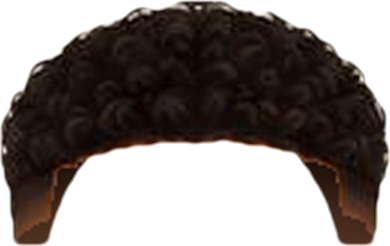
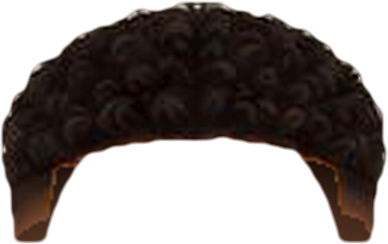
Coiffures garçons : crâne sous les cheveux (plus de vide entre la coiffure et la tête), bords nets
Claude-Session: https://claude.ai/code/session_01RffJDTtPaeahFdiXkdY2ya

diff --git a/js/coiffures-art.js b/js/coiffures-art.js
@@ -1,2 +1,2 @@
 /* formes décalquées par tools/traceur-coiffures.py sur docs/references/coiffures/ — ne pas modifier à la main */
-const HAIR_ART={"longs":{"img":[61.76,56.98,276.48,530.04],"lum":[0.079,0.145,0.33],"fcut":[345,136],"main":"#2f2420","back":[["sil","M76.6,307.2 76.4,323.2 73.5,334.3 73.5,350.9 70.5,357.7 70.5,364.1 72.0,368.0 72.2,374.9 75.3,376.5 76.4,378.4 74.9,385.0 324.9,385.0 323.4,378.4 324.5,376.5 327.6,374.9 327.8,368.0 329.3,364.1 329.3,357.7 326.4,350.9 326.4,334.3 323.4,323.2 323.4,308.0 321.8,303.2 78.0,303.2Z","#211815"]],"front":[["sil","","#2f2420"]]},"carrelisse":{"img":[64.24,52.26,260.24,271.92],"lum":[0.075,0.147,0.377],"main":"#29201c","back":[["sil","","#1a1411"]],"front":[["sil","","#29201c"]]},"queuehaute2":{"img":[95.53,4.04,242.49,372.16],"lum":[0.081,0.152,0.38],"dos":1,"ears":1,"main":"#281e1b","back":[["sil","","#1c1613"]],"front":[["sil","","#281e1b"]]},"mechesdevant":{"img":[52.66,40.92,292.88,450.58],"lum":[0.066,0.132,0.372],"dos":1,"main":"#2b211d","back":[["sil","M64.8,297.4 64.8,308.7 61.3,313.7 61.3,317.6 59.6,322.1 59.6,329.7 57.9,334.2 57.9,343.6 56.1,348.1 56.1,353.9 52.7,367.2 52.7,379.7 54.2,381.9 76.9,382.1 76.9,392.1 73.5,405.3 73.5,411.1 71.7,415.7 71.7,423.3 70.0,427.8 70.0,452.7 71.7,457.3 71.9,462.3 76.5,473.3 86.7,483.9 96.9,486.5 103.4,491.3 287.7,491.3 294.2,486.5 299.6,485.7 306.5,482.2 315.0,474.0 320.8,458.8 321.1,448.6 322.8,444.1 322.8,436.5 321.1,431.9 321.1,420.9 319.3,416.3 319.3,407.0 317.6,402.5 317.6,394.9 315.9,390.3 315.9,383.8 343.8,383.6 345.3,381.5 345.3,370.6 343.6,366.1 343.6,362.0 341.9,357.4 341.9,353.3 338.4,340.1 338.4,334.2 334.9,321.0 334.9,311.7 333.2,307.2 333.2,301.3 331.7,297.4Z","#1a1411"]],"front":[["sil","","#2b211d"]]},"frangedroite":{"img":[73.46,44.39,265.15,443.65],"lum":[0.071,0.146,0.373],"dos":1,"main":"#291f1c","back":[["sil","M77.6,297.6 76.9,324.5 75.2,329.0 75.2,340.1 76.9,344.6 76.9,353.7 73.5,358.7 73.5,369.5 76.3,373.7 281.2,374.1 281.4,412.9 283.1,417.4 283.1,449.3 284.9,453.8 285.3,485.0 290.5,487.8 331.0,487.8 338.0,485.0 338.4,471.1 336.7,466.6 336.7,446.9 334.9,442.3 334.9,429.6 333.2,425.0 333.2,415.7 331.5,411.1 331.5,400.1 329.7,395.5 329.7,388.0 328.0,383.4 328.0,356.8 326.3,352.2 326.3,341.2 324.5,336.6 324.5,318.6 322.8,314.1 322.8,299.6 321.9,297.4Z","#191310"]],"front":[["sil","","#291f1c"]]},"chignonhaut2":{"img":[88.56,-28.55,213.5,337.75],"lum":[0.102,0.159,0.406],"ears":1,"main":"#2d241f","back":[["sil","","#241b18"]],"front":[["sil","","#2d241f"]]},"raiecotel":{"img":[45.39,39.7,268.92,446.25],"lum":[0.074,0.142,0.34],"dos":1,"main":"#271f1d","back":[["sil","M62.7,479.8 65.2,483.5 71.5,485.7 126.4,485.7 129.9,483.3 130.3,472.4 125.1,455.5 125.1,451.4 123.3,446.8 123.3,440.9 121.6,436.3 121.6,425.1 119.8,420.5 119.8,407.6 118.1,403.0 118.1,374.4 116.8,370.0 313.0,369.8 314.1,367.8 314.1,351.6 312.3,347.0 312.3,318.4 310.6,313.8 310.6,296.9 58.8,296.9 57.1,302.6 57.1,312.0 55.3,316.6 55.3,324.3 53.6,328.9 53.6,340.0 51.8,344.6 51.8,352.3 50.1,356.9 50.1,362.8 48.3,367.4 48.3,373.3 46.6,377.9 46.6,383.8 44.8,388.4 44.8,391.7 45.7,394.3 60.6,394.5 60.6,404.8 58.8,409.4 58.8,460.8 60.6,465.4 60.6,469.5 62.3,474.1Z","#181412"]],"front":[["sil","","#271f1d"]]},"deuxtresses":{"img":[80.41,47.89,228.48,455.17],"lum":[0.079,0.134,0.364],"dos":1,"ears":1,"main":"#2b221e","back":[["sil","","#1c1613"]],"front":[["sil","","#2b221e"]]},"serretete":{"img":[63.31,42.58,266.87,334.02],"lum":[0.067,0.132,0.354],"acc":1,"dos":1,"main":"#211a17","back":[["sil","M67.1,299.6 66.8,315.3 65.1,319.9 65.1,331.2 63.3,335.8 63.3,345.3 65.1,349.9 65.1,355.9 63.3,360.5 63.3,374.2 64.4,376.2 324.0,376.2 326.9,378.2 328.4,378.0 329.7,376.2 330.0,349.9 328.2,345.3 328.2,327.0 326.4,322.3 326.4,302.2 324.7,296.5 68.4,296.5Z","#16120f"]],"front":[["sil","","#211a17"]]},"barrette":{"img":[57.2,42.54,269.53,306.42],"lum":[0.067,0.141,0.442],"acc":1,"main":"#271e1b","back":[["sil","M57.2,297.8 57.2,307.8 59.0,312.5 59.2,317.6 63.0,329.0 67.9,337.7 82.6,342.2 96.7,344.2 105.8,347.5 115.4,347.5 120.1,349.3 123.7,348.9 125.3,345.8 283.2,345.8 290.6,342.4 305.5,340.2 309.6,337.3 315.8,335.9 318.9,332.6 321.4,325.9 324.5,322.8 324.7,317.9 326.5,313.2 326.5,297.8Z","#17120f"]],"front":[["sil","","#271e1b"]]},"raiemilieu":{"img":[55.52,32.13,284.14,450.5],"lum":[0.067,0.142,0.369],"dos":1,"main":"#281f1b","back":[["sil","M62.8,296.8 62.8,299.8 61.0,304.6 61.0,321.7 59.2,326.4 59.2,341.7 57.3,346.5 57.3,356.3 55.5,361.0 55.5,374.5 56.4,376.8 58.3,378.1 73.7,378.4 73.7,390.9 71.9,395.7 71.9,401.8 70.1,406.6 70.1,412.7 68.3,417.5 68.3,425.5 66.5,430.3 66.5,440.1 64.6,444.8 64.6,458.3 62.8,463.0 62.8,479.9 63.9,481.9 327.8,482.4 329.9,481.3 330.3,468.5 328.5,463.7 328.5,444.8 326.7,440.1 326.7,430.3 324.9,425.5 324.9,419.3 323.0,414.6 323.0,408.4 321.2,403.6 321.2,393.8 319.4,389.1 318.9,379.7 338.8,379.5 339.4,377.2 339.4,357.4 337.6,352.6 337.6,339.2 335.8,334.4 335.8,321.0 334.0,316.2 334.0,306.4 332.2,301.6 332.2,296.8Z","#1b1511"]],"front":[["sil","","#281f1b"]]},"queuelisse":{"img":[87.02,5.23,239.8,369.02],"lum":[0.07,0.142,0.374],"dos":1,"ears":1,"main":"#231b18","back":[["sil","M87.0,297.3 87.0,309.3 88.8,314.0 88.8,339.9 87.0,344.7 87.0,364.9 88.6,367.2 306.5,367.4 316.9,371.5 321.6,375.3 323.9,375.1 326.4,373.0 326.6,364.5 324.8,359.8 324.8,353.7 323.0,348.9 323.0,342.8 321.2,338.1 321.2,332.0 319.4,327.3 319.4,319.4 317.6,314.7 317.6,308.6 315.8,303.9 315.8,297.3Z","#171310"]],"front":[["sil","","#231b18"]]},"bafro":{"img":[-35.38,-42.2,441.59,404.36],"lum":[0.084,0.118,0.453],"dos":1,"main":"#231917","back":[["sil","","#1e1512"]],"front":[["sil","","#231917"]]},"bbantu":{"img":[64.41,16.43,267.67,201.6],"lum":[0.08,0.126,0.397],"ears":1,"main":"#241a17","back":[["sil","","#1e1513"]],"front":[["sil","","#241a17"]]},"bcarre":{"img":[-2.61,34.18,393.98,324.86],"lum":[0.08,0.117,0.406],"dos":1,"main":"#221816","back":[["sil","","#1c1411"]],"front":[["sil","","#221816"]]},"bchignon":{"img":[50.96,-55.67,266.11,266.68],"lum":[0.09,0.13,0.494],"ears":1,"main":"#271c19","back":[["sil","","#211715"]],"front":[["sil","","#271c19"]]},"bpuffs":{"img":[-2.22,-19.51,380.5,324.65],"lum":[0.083,0.122,0.511],"ears":1,"main":"#241a18","back":[["sil","","#1e1513"]],"front":[["sil","","#241a18"]]},"bbox":{"img":[36.18,45.08,305.45,357.81],"lum":[0.065,0.109,0.383],"dos":1,"main":"#1e1513","back":[["sil","","#17100e"]],"front":[["sil","","#1e1513"]]},"bcollees":{"img":[93.21,46.92,210.07,306.63],"lum":[0.061,0.117,0.555],"dos":1,"ears":1,"main":"#211815","back":[["sil","","#191210"]],"front":[["sil","","#211815"]]},"bdemiqueue":{"img":[-4.99,-5.51,384.79,420.41],"lum":[0.072,0.115,0.435],"dos":1,"main":"#211715","back":[["sil","","#1a1210"]],"front":[["sil","","#211715"]]},"bqueue":{"img":[-19.11,-13.87,331.64,450.88],"lum":[0.05,0.101,0.479],"dos":1,"ears":1,"fcut":[335,40],"main":"#1b120f","back":[["sil","","#140c0a"]],"front":[["sil","","#1b120f"]]},"blongs":{"img":[-15.94,38.56,410.84,382.62],"lum":[0.074,0.114,0.376],"dos":1,"main":"#211715","back":[["sil","","#1b1310"]],"front":[["sil","","#211715"]]},"bchignonhaut":{"img":[54.2,-60.1,265.5,238.46],"lum":[0.045,0.099,0.528],"ears":1,"main":"#1a120f","back":[["sil","","#130b09"]],"front":[["sil","","#1a120f"]]},"bchignonbas":{"img":[2.88,22.15,317.2,322.46],"lum":[0.05,0.107,0.353],"ears":1,"main":"#1e1512","back":[["sil","","#150d0b"]],"front":[["sil","","#1e1512"]]},"btwists":{"img":[44.85,44.74,293.57,371.61],"lum":[0.066,0.11,0.393],"dos":1,"main":"#201614","back":[["sil","","#19110f"]],"front":[["sil","","#201614"]]},"bchignonmeches":{"img":[64.47,-46.78,265.5,320.89],"lum":[0.045,0.109,0.56],"ears":1,"main":"#1c1411","back":[["sil","","#130c0a"]],"front":[["sil","","#1c1411"]]},"bwashgo":{"img":[-14.33,34.03,409.46,330.57],"lum":[0.079,0.111,0.473],"dos":1,"main":"#211715","back":[["sil","","#1c1411"]],"front":[["sil","","#211715"]]},"bfoulard":{"img":[17.63,-15.05,289.29,226.51],"lum":[0.077,0.119,0.521],"acc":1,"ears":1,"main":"#211815","back":[["sil","","#1c1311"]],"front":[["sil","","#211815"]]},"btressesboucles":{"img":[-20.98,37.88,402.54,365.23],"lum":[0.074,0.109,0.442],"dos":1,"main":"#201614","back":[["sil","","#1a1210"]],"front":[["sil","","#201614"]]},"bcourt":{"img":[49.71,4.49,284.72,212.07],"lum":[0.096,0.123,0.417],"ears":1,"main":"#261b19","back":[["sil","","#211815"]],"front":[["sil","","#261b19"]]},"bqueuehaute":{"img":[-47.74,-22.65,369.64,407.31],"lum":[0.048,0.098,0.449],"dos":1,"ears":1,"main":"#1a120f","back":[["sil","","#130c09"]],"front":[["sil","","#1a120f"]]},"btressesarriere":{"img":[4.41,37.45,303.72,347.3],"lum":[0.044,0.096,0.382],"dos":1,"ears":1,"main":"#19110e","back":[["sil","","#120b08"]],"front":[["sil","","#19110e"]]},"gnaturel":{"img":[81.29,16.03,239.41,178.35],"lum":[0.046,0.096,0.358],"ears":1,"main":"#241914","back":[["sil","","#150c09"]],"front":[["sil","","#241914"]]},"gdegbas":{"img":[80.99,12.63,238.12,177.06],"lum":[0.046,0.1,0.345],"ears":1,"main":"#251a15","back":[["sil","","#160c09"]],"front":[["sil","","#251a15"]]},"gdegmoyen":{"img":[78.83,7.32,244.2,163.42],"lum":[0.046,0.097,0.385],"ears":1,"main":"#1c120f","back":[["sil","","#150c09"]],"front":[["sil","","#1c120f"]]},"gdeghaut":{"img":[80.36,3.77,242.93,153.23],"lum":[0.042,0.093,0.419],"ears":1,"main":"#1a110e","back":[["sil","","#140b08"]],"front":[["sil","","#1a110e"]]},"gbuzz":{"img":[84.38,16.57,234.95,171.43],"lum":[0.072,0.117,0.307],"ears":1,"main":"#221612","back":[["sil","","#1b110d"]],"front":[["sil","","#221612"]]},"gcarrecourt":{"img":[80.68,11.02,246.05,183.15],"lum":[0.054,0.102,0.373],"ears":1,"main":"#261a15","back":[["sil","","#170e0b"]],"front":[["sil","","#261a15"]]},"gcarremoyen":{"img":[68.16,5.31,267.43,227.74],"lum":[0.054,0.098,0.398],"main":"#241814","back":[["sil","","#180e0c"]],"front":[["sil","","#241814"]]},"gcarrelong":{"img":[57.93,0.03,284.04,231.09],"lum":[0.043,0.098,0.439],"main":"#241815","back":[["sil","","#160d0a"]],"front":[["sil","","#241815"]]},"gplaques":{"img":[80.36,9.38,242.93,183.13],"lum":[0.052,0.098,0.318],"ears":1,"main":"#1d1310","back":[["sil","","#170e0c"]],"front":[["sil","","#1d1310"]]},"graiemilieu":{"img":[66.82,7.7,269.95,224.64],"lum":[0.04,0.099,0.395],"main":"#1d1310","back":[["sil","","#150c09"]],"front":[["sil","","#1d1310"]]},"graiecote":{"img":[73.28,1.77,255.3,194.25],"lum":[0.044,0.097,0.308],"ears":1,"main":"#1c120f","back":[["sil","","#160c09"]],"front":[["sil","","#1c120f"]]},"gquiff":{"img":[69.58,-7.48,264.55,204.12],"lum":[0.037,0.098,0.47],"ears":1,"main":"#1c120f","back":[["sil","","#130b08"]],"front":[["sil","","#1c120f"]]},"gpompadour":{"img":[78.83,-5.63,240.5,197.95],"lum":[0.039,0.094,0.366],"ears":1,"main":"#1c120f","back":[["sil","","#140b08"]],"front":[["sil","","#1c120f"]]},"gtaper":{"img":[74.37,-4.26,256.73,192.55],"lum":[0.038,0.087,0.416],"ears":1,"main":"#190f0d","back":[["sil","","#130a08"]],"front":[["sil","","#190f0d"]]},"gondule":{"img":[70.59,-3.63,262.4,200.73],"lum":[0.036,0.092,0.447],"ears":1,"main":"#1a110e","back":[["sil","","#120a07"]],"front":[["sil","","#1a110e"]]}};
+const HAIR_ART={"longs":{"img":[61.76,56.98,276.48,530.04],"lum":[0.079,0.145,0.33],"fcut":[345,136],"main":"#2f2420","back":[["sil","M76.6,307.2 76.4,323.2 73.5,334.3 73.5,350.9 70.5,357.7 70.5,364.1 72.0,368.0 72.2,374.9 75.3,376.5 76.4,378.4 74.9,385.0 324.9,385.0 323.4,378.4 324.5,376.5 327.6,374.9 327.8,368.0 329.3,364.1 329.3,357.7 326.4,350.9 326.4,334.3 323.4,323.2 323.4,308.0 321.8,303.2 78.0,303.2Z","#211815"]],"front":[["sil","","#2f2420"]]},"carrelisse":{"img":[64.24,52.26,260.24,271.92],"lum":[0.075,0.147,0.377],"main":"#29201c","back":[["sil","","#1a1411"]],"front":[["sil","","#29201c"]]},"queuehaute2":{"img":[95.53,4.04,242.49,372.16],"lum":[0.081,0.152,0.38],"dos":1,"ears":1,"main":"#281e1b","back":[["sil","","#1c1613"]],"front":[["sil","","#281e1b"]]},"mechesdevant":{"img":[52.66,40.92,292.88,450.58],"lum":[0.066,0.132,0.372],"dos":1,"main":"#2b211d","back":[["sil","M64.8,297.4 64.8,308.7 61.3,313.7 61.3,317.6 59.6,322.1 59.6,329.7 57.9,334.2 57.9,343.6 56.1,348.1 56.1,353.9 52.7,367.2 52.7,379.7 54.2,381.9 76.9,382.1 76.9,392.1 73.5,405.3 73.5,411.1 71.7,415.7 71.7,423.3 70.0,427.8 70.0,452.7 71.7,457.3 71.9,462.3 76.5,473.3 86.7,483.9 96.9,486.5 103.4,491.3 287.7,491.3 294.2,486.5 299.6,485.7 306.5,482.2 315.0,474.0 320.8,458.8 321.1,448.6 322.8,444.1 322.8,436.5 321.1,431.9 321.1,420.9 319.3,416.3 319.3,407.0 317.6,402.5 317.6,394.9 315.9,390.3 315.9,383.8 343.8,383.6 345.3,381.5 345.3,370.6 343.6,366.1 343.6,362.0 341.9,357.4 341.9,353.3 338.4,340.1 338.4,334.2 334.9,321.0 334.9,311.7 333.2,307.2 333.2,301.3 331.7,297.4Z","#1a1411"]],"front":[["sil","","#2b211d"]]},"frangedroite":{"img":[73.46,44.39,265.15,443.65],"lum":[0.071,0.146,0.373],"dos":1,"main":"#291f1c","back":[["sil","M77.6,297.6 76.9,324.5 75.2,329.0 75.2,340.1 76.9,344.6 76.9,353.7 73.5,358.7 73.5,369.5 76.3,373.7 281.2,374.1 281.4,412.9 283.1,417.4 283.1,449.3 284.9,453.8 285.3,485.0 290.5,487.8 331.0,487.8 338.0,485.0 338.4,471.1 336.7,466.6 336.7,446.9 334.9,442.3 334.9,429.6 333.2,425.0 333.2,415.7 331.5,411.1 331.5,400.1 329.7,395.5 329.7,388.0 328.0,383.4 328.0,356.8 326.3,352.2 326.3,341.2 324.5,336.6 324.5,318.6 322.8,314.1 322.8,299.6 321.9,297.4Z","#191310"]],"front":[["sil","","#291f1c"]]},"chignonhaut2":{"img":[88.56,-28.55,213.5,337.75],"lum":[0.102,0.159,0.406],"ears":1,"main":"#2d241f","back":[["sil","","#241b18"]],"front":[["sil","","#2d241f"]]},"raiecotel":{"img":[45.39,39.7,268.92,446.25],"lum":[0.074,0.142,0.34],"dos":1,"main":"#271f1d","back":[["sil","M62.7,479.8 65.2,483.5 71.5,485.7 126.4,485.7 129.9,483.3 130.3,472.4 125.1,455.5 125.1,451.4 123.3,446.8 123.3,440.9 121.6,436.3 121.6,425.1 119.8,420.5 119.8,407.6 118.1,403.0 118.1,374.4 116.8,370.0 313.0,369.8 314.1,367.8 314.1,351.6 312.3,347.0 312.3,318.4 310.6,313.8 310.6,296.9 58.8,296.9 57.1,302.6 57.1,312.0 55.3,316.6 55.3,324.3 53.6,328.9 53.6,340.0 51.8,344.6 51.8,352.3 50.1,356.9 50.1,362.8 48.3,367.4 48.3,373.3 46.6,377.9 46.6,383.8 44.8,388.4 44.8,391.7 45.7,394.3 60.6,394.5 60.6,404.8 58.8,409.4 58.8,460.8 60.6,465.4 60.6,469.5 62.3,474.1Z","#181412"]],"front":[["sil","","#271f1d"]]},"deuxtresses":{"img":[80.41,47.89,228.48,455.17],"lum":[0.079,0.134,0.364],"dos":1,"ears":1,"main":"#2b221e","back":[["sil","","#1c1613"]],"front":[["sil","","#2b221e"]]},"serretete":{"img":[63.31,42.58,266.87,334.02],"lum":[0.067,0.132,0.354],"acc":1,"dos":1,"main":"#211a17","back":[["sil","M67.1,299.6 66.8,315.3 65.1,319.9 65.1,331.2 63.3,335.8 63.3,345.3 65.1,349.9 65.1,355.9 63.3,360.5 63.3,374.2 64.4,376.2 324.0,376.2 326.9,378.2 328.4,378.0 329.7,376.2 330.0,349.9 328.2,345.3 328.2,327.0 326.4,322.3 326.4,302.2 324.7,296.5 68.4,296.5Z","#16120f"]],"front":[["sil","","#211a17"]]},"barrette":{"img":[57.2,42.54,269.53,306.42],"lum":[0.067,0.141,0.442],"acc":1,"main":"#271e1b","back":[["sil","M57.2,297.8 57.2,307.8 59.0,312.5 59.2,317.6 63.0,329.0 67.9,337.7 82.6,342.2 96.7,344.2 105.8,347.5 115.4,347.5 120.1,349.3 123.7,348.9 125.3,345.8 283.2,345.8 290.6,342.4 305.5,340.2 309.6,337.3 315.8,335.9 318.9,332.6 321.4,325.9 324.5,322.8 324.7,317.9 326.5,313.2 326.5,297.8Z","#17120f"]],"front":[["sil","","#271e1b"]]},"raiemilieu":{"img":[55.52,32.13,284.14,450.5],"lum":[0.067,0.142,0.369],"dos":1,"main":"#281f1b","back":[["sil","M62.8,296.8 62.8,299.8 61.0,304.6 61.0,321.7 59.2,326.4 59.2,341.7 57.3,346.5 57.3,356.3 55.5,361.0 55.5,374.5 56.4,376.8 58.3,378.1 73.7,378.4 73.7,390.9 71.9,395.7 71.9,401.8 70.1,406.6 70.1,412.7 68.3,417.5 68.3,425.5 66.5,430.3 66.5,440.1 64.6,444.8 64.6,458.3 62.8,463.0 62.8,479.9 63.9,481.9 327.8,482.4 329.9,481.3 330.3,468.5 328.5,463.7 328.5,444.8 326.7,440.1 326.7,430.3 324.9,425.5 324.9,419.3 323.0,414.6 323.0,408.4 321.2,403.6 321.2,393.8 319.4,389.1 318.9,379.7 338.8,379.5 339.4,377.2 339.4,357.4 337.6,352.6 337.6,339.2 335.8,334.4 335.8,321.0 334.0,316.2 334.0,306.4 332.2,301.6 332.2,296.8Z","#1b1511"]],"front":[["sil","","#281f1b"]]},"queuelisse":{"img":[87.02,5.23,239.8,369.02],"lum":[0.07,0.142,0.374],"dos":1,"ears":1,"main":"#231b18","back":[["sil","M87.0,297.3 87.0,309.3 88.8,314.0 88.8,339.9 87.0,344.7 87.0,364.9 88.6,367.2 306.5,367.4 316.9,371.5 321.6,375.3 323.9,375.1 326.4,373.0 326.6,364.5 324.8,359.8 324.8,353.7 323.0,348.9 323.0,342.8 321.2,338.1 321.2,332.0 319.4,327.3 319.4,319.4 317.6,314.7 317.6,308.6 315.8,303.9 315.8,297.3Z","#171310"]],"front":[["sil","","#231b18"]]},"bafro":{"img":[-35.38,-42.2,441.59,404.36],"lum":[0.084,0.118,0.453],"dos":1,"main":"#231917","back":[["sil","","#1e1512"]],"front":[["sil","","#231917"]]},"bbantu":{"img":[64.41,16.43,267.67,201.6],"lum":[0.08,0.126,0.397],"ears":1,"main":"#241a17","back":[["sil","","#1e1513"]],"front":[["sil","","#241a17"]]},"bcarre":{"img":[-2.61,34.18,393.98,324.86],"lum":[0.08,0.117,0.406],"dos":1,"main":"#221816","back":[["sil","","#1c1411"]],"front":[["sil","","#221816"]]},"bchignon":{"img":[50.96,-55.67,266.11,266.68],"lum":[0.09,0.13,0.494],"ears":1,"main":"#271c19","back":[["sil","","#211715"]],"front":[["sil","","#271c19"]]},"bpuffs":{"img":[-2.22,-19.51,380.5,324.65],"lum":[0.083,0.122,0.511],"ears":1,"main":"#241a18","back":[["sil","","#1e1513"]],"front":[["sil","","#241a18"]]},"bbox":{"img":[36.18,45.08,305.45,357.81],"lum":[0.065,0.109,0.383],"dos":1,"main":"#1e1513","back":[["sil","","#17100e"]],"front":[["sil","","#1e1513"]]},"bcollees":{"img":[93.21,46.92,210.07,306.63],"lum":[0.061,0.117,0.555],"dos":1,"ears":1,"main":"#211815","back":[["sil","","#191210"]],"front":[["sil","","#211815"]]},"bdemiqueue":{"img":[-4.99,-5.51,384.79,420.41],"lum":[0.072,0.115,0.435],"dos":1,"main":"#211715","back":[["sil","","#1a1210"]],"front":[["sil","","#211715"]]},"bqueue":{"img":[-19.11,-13.87,331.64,450.88],"lum":[0.05,0.101,0.479],"dos":1,"ears":1,"fcut":[335,40],"main":"#1b120f","back":[["sil","","#140c0a"]],"front":[["sil","","#1b120f"]]},"blongs":{"img":[-15.94,38.56,410.84,382.62],"lum":[0.074,0.114,0.376],"dos":1,"main":"#211715","back":[["sil","","#1b1310"]],"front":[["sil","","#211715"]]},"bchignonhaut":{"img":[54.2,-60.1,265.5,238.46],"lum":[0.045,0.099,0.528],"ears":1,"main":"#1a120f","back":[["sil","","#130b09"]],"front":[["sil","","#1a120f"]]},"bchignonbas":{"img":[2.88,22.15,317.2,322.46],"lum":[0.05,0.107,0.353],"ears":1,"main":"#1e1512","back":[["sil","","#150d0b"]],"front":[["sil","","#1e1512"]]},"btwists":{"img":[44.85,44.74,293.57,371.61],"lum":[0.066,0.11,0.393],"dos":1,"main":"#201614","back":[["sil","","#19110f"]],"front":[["sil","","#201614"]]},"bchignonmeches":{"img":[64.47,-46.78,265.5,320.89],"lum":[0.045,0.109,0.56],"ears":1,"main":"#1c1411","back":[["sil","","#130c0a"]],"front":[["sil","","#1c1411"]]},"bwashgo":{"img":[-14.33,34.03,409.46,330.57],"lum":[0.079,0.111,0.473],"dos":1,"main":"#211715","back":[["sil","","#1c1411"]],"front":[["sil","","#211715"]]},"bfoulard":{"img":[17.63,-15.05,289.29,226.51],"lum":[0.077,0.119,0.521],"acc":1,"ears":1,"main":"#211815","back":[["sil","","#1c1311"]],"front":[["sil","","#211815"]]},"btressesboucles":{"img":[-20.98,37.88,402.54,365.23],"lum":[0.074,0.109,0.442],"dos":1,"main":"#201614","back":[["sil","","#1a1210"]],"front":[["sil","","#201614"]]},"bcourt":{"img":[49.71,4.49,284.72,212.07],"lum":[0.096,0.123,0.417],"ears":1,"main":"#261b19","back":[["sil","","#211815"]],"front":[["sil","","#261b19"]]},"bqueuehaute":{"img":[-47.74,-22.65,369.64,407.31],"lum":[0.048,0.098,0.449],"dos":1,"ears":1,"main":"#1a120f","back":[["sil","","#130c09"]],"front":[["sil","","#1a120f"]]},"btressesarriere":{"img":[4.41,37.45,303.72,347.3],"lum":[0.044,0.096,0.382],"dos":1,"ears":1,"main":"#19110e","back":[["sil","","#120b08"]],"front":[["sil","","#19110e"]]},"gnaturel":{"img":[81.9,17.24,238.2,175.33],"lum":[0.046,0.096,0.358],"ears":1,"crane":"M306.0,70.7 302.1,66.8 299.6,66.4 295.5,62.3 295.1,58.0 293.0,55.9 290.6,55.5 289.4,52.3 285.1,51.8 284.2,48.9 278.5,43.2 272.4,42.8 269.5,36.0 267.4,35.8 265.4,33.9 256.5,33.9 255.0,30.5 252.9,30.3 247.2,26.7 238.4,26.7 236.4,24.9 233.0,24.9 227.5,21.5 218.7,21.5 216.4,19.4 214.4,19.4 212.3,21.2 181.7,21.2 180.1,22.8 177.6,23.3 174.2,26.7 163.6,26.7 161.5,28.5 158.1,28.5 156.1,30.3 152.7,30.3 148.9,33.9 145.5,33.9 139.8,37.6 135.9,37.8 132.1,41.6 131.2,44.6 127.3,44.8 125.7,46.4 119.6,48.7 113.9,54.3 113.5,58.6 111.2,60.9 104.9,63.4 104.6,65.4 102.8,67.5 102.6,73.2 99.7,74.1 97.6,76.1 95.3,82.2 92.2,85.2 91.9,87.2 90.1,89.3 90.1,94.5 88.3,96.5 88.3,105.4 86.5,107.4 86.5,114.4 84.7,116.5 84.7,134.8 86.5,136.9 86.5,145.7 88.3,147.7 88.3,156.6 90.1,158.6 90.1,165.7 91.9,167.7 91.9,172.9 93.8,175.0 93.8,178.4 95.6,180.4 95.8,186.1 99.2,190.1 302.1,189.9 302.8,187.2 306.2,185.6 306.2,180.4 308.0,178.4 308.0,173.1 309.8,171.1 309.8,165.9 311.6,163.8 311.6,158.6 313.4,156.6 313.4,147.7 315.3,145.7 315.3,138.7 317.1,136.6 317.1,102.0 315.3,99.9 315.3,94.7 311.6,90.8 311.6,82.0 309.4,79.5 306.2,78.1Z","main":"#241914","back":[["sil","","#150c09"]],"front":[["sil","","#241914"]]},"gdegbas":{"img":[81.6,13.24,236.9,173.4],"lum":[0.046,0.1,0.345],"ears":1,"crane":"M86.3,92.1 86.3,104.7 84.4,106.7 84.4,123.4 86.3,125.5 86.3,132.6 88.1,134.7 88.1,141.8 89.9,143.8 89.9,154.6 91.7,156.6 91.7,163.7 93.6,166.5 307.2,166.5 308.1,165.6 308.1,160.3 309.9,158.3 309.9,149.3 311.8,147.3 311.8,138.3 313.6,136.3 313.6,125.5 315.4,123.4 315.4,92.1 313.6,90.0 313.6,82.9 308.3,77.7 307.9,71.5 304.0,67.6 301.5,67.1 299.2,64.8 299.0,59.1 297.4,57.5 296.9,55.0 294.8,52.9 285.0,48.8 284.3,44.5 282.0,41.9 278.1,41.7 272.9,36.4 269.0,36.2 267.4,34.6 264.8,34.2 263.7,30.9 256.1,30.7 250.9,25.5 247.0,25.2 244.9,23.4 241.5,23.4 237.6,19.7 225.0,19.7 222.9,17.9 215.8,17.9 213.8,16.1 195.2,16.1 193.2,17.9 180.6,17.9 178.8,19.7 169.6,19.7 168.0,21.3 165.5,21.8 162.0,25.2 153.1,25.2 149.7,28.7 145.8,28.9 144.2,30.5 134.3,34.6 127.7,41.5 123.3,41.9 122.7,44.7 120.4,47.0 117.8,47.4 114.9,50.6 112.4,51.1 111.7,55.7 109.4,58.0 103.2,60.3 101.1,62.3 100.9,64.4 99.1,66.4 99.1,69.9 97.2,71.9 97.2,75.4 92.0,78.8 91.7,84.5 90.1,86.1 89.7,88.6Z","main":"#251a15","back":[["sil","","#160c09"]],"front":[["sil","","#251a15"]]},"gdegmoyen":{"img":[79.44,7.94,242.35,161.57],"lum":[0.046,0.097,0.385],"ears":1,"crane":"M82.3,87.6 82.3,119.2 84.1,121.3 84.1,126.6 86.0,128.7 86.0,139.6 87.8,141.7 87.8,148.8 89.7,150.9 89.7,158.1 91.5,160.2 91.5,166.4 307.3,166.4 308.2,165.5 308.2,160.2 310.1,158.1 310.1,149.1 311.9,147.0 311.9,138.0 313.8,135.9 313.8,123.2 315.6,121.1 315.6,117.6 317.5,115.5 317.5,102.8 319.3,100.7 319.3,96.8 315.6,92.9 315.6,80.2 314.0,78.5 313.5,76.0 311.5,73.9 308.5,73.0 308.2,67.2 306.4,65.1 306.1,61.2 299.2,56.3 296.9,50.1 294.8,48.0 292.7,47.8 290.6,45.9 286.7,45.7 282.6,41.5 280.2,35.3 273.8,32.8 268.9,27.7 266.8,27.4 264.8,25.6 255.7,25.6 250.4,20.3 248.3,20.0 246.2,18.2 240.9,18.2 238.8,16.3 224.3,16.3 220.8,12.9 218.7,12.6 216.7,10.8 192.4,10.8 190.3,14.5 172.0,14.5 168.1,18.2 157.2,18.2 151.4,21.9 148.0,21.9 146.4,23.5 143.8,24.0 137.1,30.9 129.5,31.1 126.0,34.6 123.5,35.1 120.9,41.5 118.6,43.9 114.7,44.1 113.1,45.7 106.8,48.0 104.7,50.1 102.4,56.3 95.5,61.2 95.2,63.3 91.5,69.1 91.5,72.5 88.1,76.0 87.8,79.9 84.4,83.4 84.1,85.5Z","main":"#1c120f","back":[["sil","","#150c09"]],"front":[["sil","","#1c120f"]]},"gdeghaut":{"img":[80.98,4.39,241.68,151.99],"lum":[0.042,0.093,0.419],"ears":1,"crane":"M83.9,83.0 83.9,103.7 85.7,105.8 85.7,113.1 89.5,118.9 89.5,135.5 91.3,137.6 91.3,152.3 92.3,153.3 310.2,153.3 310.2,147.0 312.1,144.9 312.1,126.4 313.9,124.3 313.9,115.2 317.7,111.2 317.7,105.8 319.5,103.7 319.5,97.9 317.7,95.8 317.7,75.5 312.3,70.1 310.0,63.8 304.8,58.9 304.4,52.6 296.7,44.9 292.7,44.6 291.1,43.0 288.5,42.5 285.7,35.8 283.6,33.7 277.3,31.3 270.5,24.3 262.8,24.1 261.2,22.5 258.6,22.0 255.5,18.7 249.2,16.4 245.7,12.9 225.4,12.9 223.8,11.2 221.2,10.8 217.7,7.3 193.2,7.3 191.1,11.0 168.9,11.0 167.3,12.6 164.7,13.1 159.3,18.5 155.8,18.5 153.5,20.6 146.2,20.6 143.0,23.9 140.9,24.1 138.8,26.0 135.2,26.0 133.6,27.6 131.0,28.1 124.3,35.1 121.5,35.8 120.5,40.7 118.4,40.9 116.3,42.8 112.8,42.8 110.7,44.6 106.8,44.9 102.8,48.9 102.5,51.0 100.7,53.1 100.7,56.6 98.8,58.7 98.6,62.6 94.1,63.3 91.6,65.7 91.3,67.8 89.5,69.9 89.5,75.2 86.0,78.8 85.7,80.9Z","main":"#1a110e","back":[["sil","","#140b08"]],"front":[["sil","","#1a110e"]]},"gbuzz":{"img":[84.99,17.19,233.72,168.35],"lum":[0.072,0.117,0.307],"ears":1,"crane":"M95.2,89.4 95.2,92.9 93.4,95.0 93.4,100.3 91.5,102.4 91.5,105.8 89.7,107.9 89.7,116.9 87.8,119.0 87.8,139.6 89.7,141.7 89.7,154.4 91.5,156.5 91.5,165.5 93.4,167.6 93.4,174.7 95.2,176.8 95.2,184.0 95.5,178.7 96.6,177.5 307.3,177.5 308.2,176.6 308.2,171.3 310.1,169.2 310.1,162.0 311.9,159.9 311.9,150.9 313.8,148.8 313.8,136.1 315.6,134.0 315.6,119.0 313.8,116.9 313.8,104.2 310.1,98.4 310.1,95.0 308.2,92.9 308.2,87.6 306.6,85.9 302.4,76.0 299.2,73.0 298.7,70.5 295.5,67.4 295.0,64.9 291.8,61.9 291.3,59.4 278.2,46.2 275.6,45.7 272.6,42.5 270.1,42.0 261.5,35.1 259.4,34.8 253.6,31.1 249.7,30.9 246.2,27.4 242.8,27.4 237.0,23.7 231.7,23.7 229.6,21.9 218.7,21.9 216.7,20.0 185.0,20.0 182.9,21.9 177.6,21.9 175.5,23.7 170.2,23.7 168.1,25.6 164.6,25.6 158.8,29.3 155.4,29.3 153.8,30.9 143.8,35.1 140.8,38.3 138.3,38.8 133.4,43.9 130.9,44.3 127.9,47.6 125.3,48.0 115.8,57.5 115.4,60.0 108.4,66.8 108.0,69.3 102.9,74.2 102.6,76.2Z","main":"#221612","back":[["sil","","#1b110d"]],"front":[["sil","","#221612"]]},"gcarrecourt":{"img":[81.29,11.64,244.82,181.3],"lum":[0.054,0.102,0.373],"ears":1,"crane":"M86.0,91.3 86.0,105.8 84.1,107.9 84.1,119.2 86.0,121.3 86.0,132.2 87.6,133.8 88.1,136.4 91.5,138.0 91.5,152.5 93.4,154.6 93.4,163.6 95.2,165.7 95.2,172.9 97.1,175.0 97.1,185.8 101.5,190.5 301.8,190.5 302.9,187.5 306.4,184.0 306.4,176.8 308.2,174.7 308.2,167.6 310.1,165.5 310.1,158.3 311.9,156.2 311.9,145.4 313.8,143.3 313.8,138.0 317.5,134.0 317.5,130.6 319.3,128.5 319.3,121.3 323.0,119.2 323.0,109.8 321.2,107.7 321.2,102.4 317.5,96.6 317.5,85.7 315.9,84.1 309.8,70.5 306.6,67.4 306.1,63.1 304.1,61.0 301.5,60.5 295.5,54.5 295.0,50.1 287.4,42.5 284.9,42.0 280.0,36.9 277.9,36.7 275.8,34.8 268.2,34.6 265.9,32.3 265.4,29.8 259.2,25.6 244.6,25.6 241.9,23.0 240.7,20.0 237.2,20.0 235.1,18.2 224.3,18.2 222.2,16.3 216.9,16.3 214.8,14.5 199.8,14.5 197.7,16.3 183.1,16.3 181.5,18.0 179.0,18.4 177.3,21.9 168.3,21.9 166.2,23.7 153.5,23.7 151.9,25.4 149.4,25.8 148.7,28.6 145.7,29.5 142.7,32.8 138.7,33.0 132.9,36.7 129.5,36.7 126.0,40.2 123.5,40.6 121.4,42.7 120.9,45.2 117.9,46.2 108.4,55.7 108.0,60.0 99.2,68.6 98.7,71.1 91.8,79.7 91.5,81.8Z","main":"#261a15","back":[["sil","","#170e0b"]],"front":[["sil","","#261a15"]]},"gcarremoyen":{"img":[68.78,5.92,266.2,225.3],"lum":[0.054,0.098,0.398],"crane":"M298.7,51.3 282.0,34.6 279.5,34.2 271.0,27.3 269.0,27.1 267.4,25.5 265.3,25.2 263.7,23.6 261.6,23.4 248.8,16.3 242.4,16.3 241.3,12.4 237.8,12.4 235.8,10.6 230.5,10.6 228.4,8.7 220.9,8.7 218.8,10.6 176.9,10.6 174.9,12.4 167.8,12.4 165.7,14.2 162.3,14.2 152.9,19.7 149.4,19.7 147.8,21.3 138.0,25.5 129.5,32.3 127.0,32.8 99.3,60.5 98.8,63.0 93.8,67.8 93.4,70.3 90.1,73.3 89.9,75.4 80.8,92.1 80.8,95.5 75.3,104.9 75.3,110.2 73.4,112.2 73.4,119.3 71.6,121.4 71.6,136.3 75.3,138.3 75.3,154.6 77.1,156.6 77.1,163.7 78.9,165.8 78.9,169.2 84.2,170.8 88.3,180.7 90.4,182.7 92.9,183.2 95.4,186.0 95.4,214.6 93.6,216.6 93.6,222.4 95.6,222.4 95.9,212.1 265.3,212.1 267.8,207.7 268.0,204.7 296.9,204.5 298.7,202.7 302.8,192.8 307.9,188.0 308.3,183.7 311.1,181.1 315.0,180.9 315.7,178.2 318.9,175.2 319.1,173.1 322.8,167.4 322.8,162.1 324.6,160.1 324.6,156.6 325.7,155.5 329.9,155.0 330.1,147.5 331.9,145.4 331.9,125.1 330.1,123.0 330.1,117.7 328.3,115.7 328.3,112.2 324.6,106.5 324.6,103.1 322.8,101.0 322.8,88.4 321.2,86.8 317.0,77.0 313.8,74.0 313.4,71.5 308.3,66.7 307.9,64.1 302.8,59.3 302.4,56.8 299.2,53.8Z","main":"#241814","back":[["sil","","#180e0c"]],"front":[["sil","","#241814"]]},"gcarrelong":{"img":[58.56,0.66,282.79,228.6],"lum":[0.043,0.098,0.439],"crane":"M87.8,67.5 87.4,70.1 84.1,73.1 83.9,75.2 76.4,88.6 76.4,92.1 74.5,94.2 74.5,101.4 68.9,111.0 68.9,114.5 65.2,120.3 65.2,123.8 63.3,125.9 63.3,131.3 61.4,133.4 61.4,146.7 62.4,147.7 65.9,147.7 67.0,148.8 67.0,165.4 68.9,167.5 68.9,174.8 70.5,176.4 71.0,179.0 74.5,180.6 74.5,195.3 78.3,197.4 78.3,206.5 79.0,207.2 91.1,207.2 91.3,214.0 93.2,216.1 93.2,219.6 96.2,220.8 96.9,222.4 312.1,222.4 312.1,219.4 309.0,214.5 309.0,207.5 323.3,206.5 323.3,193.7 326.8,192.0 327.3,187.6 330.8,186.0 330.8,165.6 332.6,163.5 332.9,159.6 338.2,157.9 338.2,131.5 336.4,129.4 336.4,124.1 334.5,122.0 334.5,118.5 332.6,116.4 332.6,112.9 330.8,110.8 330.8,107.2 328.9,105.1 328.9,92.3 327.3,90.7 323.1,80.6 319.8,77.6 317.4,71.3 314.2,68.2 313.7,65.7 306.7,58.9 306.2,56.3 295.5,45.8 295.0,43.2 284.3,34.6 283.8,30.2 274.2,22.5 272.1,22.2 270.5,20.6 268.4,20.4 251.3,11.0 247.8,11.0 245.7,9.1 242.2,9.1 240.1,7.3 234.8,7.3 232.7,5.4 195.5,5.4 193.4,3.5 174.5,3.5 172.4,5.4 168.9,5.4 163.0,9.1 159.5,9.1 153.7,12.9 150.2,12.9 148.1,14.7 144.6,14.7 143.0,16.4 129.2,22.5 126.1,25.7 123.6,26.2 108.4,41.4 107.9,43.9 104.7,47.0 104.2,49.6 95.3,58.2 94.8,60.8Z","main":"#241815","back":[["sil","","#160d0a"]],"front":[["sil","","#241815"]]},"gplaques":{"img":[80.98,10.0,241.06,179.39],"lum":[0.052,0.098,0.318],"ears":1,"crane":"M87.6,88.6 87.6,92.1 85.7,94.2 85.7,105.1 83.9,107.2 83.9,126.2 85.7,128.3 85.7,137.4 87.6,139.5 87.6,143.0 89.5,145.1 89.5,152.3 91.3,154.4 91.3,165.4 93.2,167.5 93.2,172.9 95.1,175.0 95.3,186.4 96.5,185.0 303.7,185.0 304.6,184.1 304.6,178.7 306.5,176.6 306.5,173.1 308.3,171.0 308.3,163.8 310.2,161.7 310.2,154.4 312.1,152.3 312.1,143.2 313.9,141.1 313.9,135.7 315.8,133.6 315.8,128.3 317.7,126.2 317.7,120.8 319.5,118.7 319.5,114.7 317.7,112.6 317.7,97.9 315.8,95.8 315.8,90.4 312.1,84.6 311.8,80.6 308.6,77.6 308.1,75.0 304.8,72.0 304.4,69.4 302.3,67.3 299.7,66.8 296.7,63.6 293.6,62.6 293.4,58.7 291.5,56.6 291.5,53.1 288.0,49.6 287.5,47.0 279.8,39.3 277.3,38.8 270.5,31.8 268.4,31.6 258.8,26.0 255.3,26.0 245.7,20.4 242.2,20.4 240.1,18.5 236.6,18.5 234.5,16.6 229.2,16.6 227.0,14.7 219.8,14.7 217.7,12.9 185.7,12.9 183.6,14.7 176.4,14.7 174.3,16.6 170.8,16.6 168.7,18.5 163.3,18.5 157.4,22.2 153.9,22.2 151.8,24.1 148.3,24.1 146.7,25.7 144.1,26.2 141.1,29.5 134.8,31.8 129.9,36.9 127.3,37.4 122.4,42.5 119.8,43.0 110.3,52.6 109.8,55.2 106.5,58.2 106.1,60.8 100.9,65.7 100.4,68.2 93.4,76.9 93.2,79.0Z","main":"#1d1310","back":[["sil","","#170e0c"]],"front":[["sil","","#1d1310"]]},"graiemilieu":{"img":[67.45,8.33,268.69,221.5],"lum":[0.04,0.099,0.395],"crane":"M104.6,55.1 104.1,57.7 98.9,62.7 98.4,65.3 95.1,68.3 90.9,78.5 87.6,81.6 85.2,87.9 81.9,91.0 81.7,93.1 77.9,99.0 77.9,108.2 74.1,114.1 74.1,117.7 72.2,119.8 72.2,127.1 70.4,129.2 70.4,137.0 74.1,139.1 74.1,148.3 76.0,150.5 76.0,161.5 79.1,162.7 81.7,165.6 81.7,171.0 83.6,173.1 83.6,182.3 93.0,183.3 93.0,199.3 94.9,201.4 94.9,212.0 93.0,214.2 93.0,222.4 304.4,222.4 305.9,221.0 310.1,220.5 310.3,216.1 306.6,212.0 306.6,202.8 304.7,200.7 304.7,190.1 308.2,186.6 309.2,181.6 318.8,181.4 319.8,180.4 319.8,176.9 323.6,171.0 323.6,167.4 325.4,165.3 325.4,159.9 327.3,157.8 327.3,152.3 330.9,150.7 331.1,146.7 333.0,144.6 333.0,131.1 331.1,129.0 331.1,123.6 329.2,121.4 329.2,117.9 327.3,115.8 327.3,112.2 325.4,110.1 325.4,106.6 323.6,104.4 323.3,91.0 320.0,87.9 317.7,81.6 312.5,76.6 312.0,74.0 308.7,70.9 308.2,68.3 303.0,63.4 302.6,60.8 299.2,57.7 298.8,55.1 293.6,50.2 293.1,47.6 279.7,34.1 271.4,33.7 268.3,30.4 265.7,29.9 262.7,26.6 260.1,26.1 257.7,23.7 257.0,20.9 254.9,20.7 252.8,18.8 249.2,18.8 243.3,15.0 219.0,15.0 216.9,13.1 188.8,13.1 186.7,11.2 177.0,11.2 174.9,15.0 165.7,15.0 163.6,16.9 160.0,16.9 157.9,18.8 154.4,18.8 152.7,20.4 150.1,20.9 147.0,24.2 133.1,30.4 128.2,35.5 125.6,36.0 115.0,46.9 112.4,47.3Z","main":"#1d1310","back":[["sil","","#150c09"]],"front":[["sil","","#1d1310"]]},"graiecote":{"img":[73.89,3.0,254.07,191.78],"lum":[0.044,0.097,0.308],"ears":1,"crane":"M91.8,64.9 91.5,70.7 89.9,72.3 89.5,74.8 86.2,77.9 86.0,79.9 80.4,89.4 80.4,92.9 78.6,95.0 78.6,98.4 76.7,100.5 76.7,117.4 80.2,119.0 80.4,121.1 82.3,123.2 82.3,134.0 83.9,135.7 84.4,138.2 87.6,141.2 87.8,145.1 89.7,147.2 89.7,154.4 91.5,156.5 91.5,165.5 93.4,167.6 93.4,174.7 95.2,176.8 95.2,184.0 98.7,187.5 99.6,192.3 302.4,191.9 302.7,189.8 306.4,184.0 306.4,180.5 308.2,178.4 308.2,173.1 310.1,171.0 310.1,165.7 311.9,163.6 311.9,156.5 313.8,154.4 313.8,147.2 315.6,145.1 315.6,138.0 318.9,136.6 321.2,134.0 321.2,125.0 323.0,122.9 323.0,117.6 324.9,115.5 324.9,98.7 323.0,96.6 323.0,91.3 321.2,89.2 321.2,85.7 319.3,83.6 319.1,79.7 315.9,76.7 313.5,70.5 307.8,64.7 301.5,62.4 299.2,60.0 299.0,52.4 297.4,50.8 295.0,44.6 283.7,33.2 279.3,32.8 274.5,27.7 271.9,27.2 268.9,24.0 266.8,23.7 249.9,14.5 246.5,14.5 244.4,12.6 240.9,12.6 238.8,10.8 233.5,10.8 231.4,8.9 222.4,8.9 220.3,7.1 196.5,7.1 194.2,5.2 192.1,7.1 185.0,7.1 182.9,8.9 179.4,8.9 177.3,10.8 173.9,10.8 171.8,12.6 157.2,12.6 155.1,14.5 151.2,14.7 149.1,16.8 146.4,23.5 140.6,23.7 134.8,27.4 131.3,27.4 129.7,29.1 119.8,33.2 110.3,42.7 109.8,45.2 106.6,48.3 106.1,50.8 103.1,51.7 95.5,59.4 95.0,61.9Z","main":"#1c120f","back":[["sil","","#160c09"]],"front":[["sil","","#1c120f"]]},"gquiff":{"img":[70.19,-6.86,262.7,201.65],"lum":[0.037,0.098,0.47],"ears":1,"crane":"M91.8,39.0 91.5,52.2 88.1,53.8 87.8,55.9 86.0,58.0 86.0,67.0 78.8,74.2 78.4,76.7 74.9,80.2 74.9,85.9 76.7,88.0 76.7,100.3 73.0,106.1 73.0,111.8 74.0,112.8 77.4,112.8 78.6,113.9 78.6,135.9 79.5,136.8 83.0,136.8 84.1,138.0 84.1,143.3 86.0,145.4 86.0,148.8 87.8,150.9 87.8,156.2 89.7,158.3 89.7,163.6 91.5,165.7 91.5,171.0 93.4,173.1 93.4,176.6 95.2,178.7 95.2,184.0 98.7,187.5 100.8,192.3 299.9,192.3 302.4,190.0 302.9,187.5 306.4,184.0 306.4,178.7 308.2,176.6 308.2,171.3 310.1,169.2 310.1,165.7 311.9,163.6 311.9,160.2 313.8,158.1 313.8,149.1 317.5,143.3 317.5,134.3 318.6,133.1 322.8,132.7 323.0,128.7 324.9,126.6 324.9,110.2 326.0,109.1 330.2,108.6 330.4,104.2 328.6,102.1 328.6,96.8 326.7,94.7 326.7,91.3 324.9,89.2 324.9,70.9 323.3,69.3 322.8,66.8 312.2,56.3 311.7,50.1 307.8,46.2 305.2,45.7 302.9,43.4 302.4,33.5 296.0,32.8 293.7,30.4 291.3,24.2 288.1,21.2 287.6,18.7 278.2,9.2 276.1,8.9 274.0,7.1 255.7,7.1 252.3,3.6 250.2,3.4 237.0,-4.0 175.7,-4.0 174.8,-3.1 174.8,2.2 173.6,3.4 166.5,3.4 164.4,5.2 160.5,5.5 157.0,8.9 153.5,8.9 151.4,10.8 146.1,10.8 144.0,12.6 140.6,12.6 138.5,14.5 121.6,14.7 117.4,21.0 116.8,32.8 114.7,33.0 108.9,36.7 105.4,36.7 103.3,38.5Z","main":"#1c120f","back":[["sil","","#130b08"]],"front":[["sil","","#1c120f"]]},"gpompadour":{"img":[80.06,-5.01,238.65,193.63],"lum":[0.039,0.094,0.366],"ears":1,"crane":"M88.1,35.3 87.8,39.2 86.0,41.3 86.0,44.8 84.1,46.9 84.1,72.5 82.3,74.6 82.3,78.5 89.7,88.0 89.7,100.3 87.8,102.4 87.8,128.5 89.7,130.6 89.7,139.6 91.5,141.7 91.5,152.5 93.4,154.6 93.4,165.5 95.2,167.6 95.2,174.7 97.1,176.8 97.3,186.3 97.3,182.4 98.5,181.2 303.6,181.2 306.1,178.9 306.4,171.3 308.2,169.2 308.2,162.0 310.1,159.9 310.1,150.9 311.9,148.8 311.9,138.0 313.8,135.9 313.8,125.0 315.6,122.9 315.6,96.8 310.1,87.3 310.1,76.9 311.9,74.8 311.9,71.4 313.8,69.3 313.8,52.4 311.9,50.3 311.9,46.9 310.3,45.2 308.0,39.0 305.4,36.7 301.5,36.5 300.6,33.5 297.4,30.4 295.0,24.2 283.7,12.9 281.2,12.4 278.2,9.2 276.1,8.9 274.0,7.1 257.6,7.1 256.0,5.5 253.4,5.0 250.4,1.8 248.3,1.5 246.2,-0.3 242.8,-0.3 240.7,-2.2 190.5,-2.2 188.9,1.3 183.1,1.5 181.0,3.4 157.2,3.4 155.1,5.2 142.4,5.2 140.8,10.6 138.7,10.8 136.6,12.6 127.6,12.6 125.1,15.0 124.2,18.0 120.2,18.2 116.3,21.9 103.6,21.9 101.5,23.7 97.6,24.0 93.6,27.9 93.2,30.4Z","main":"#1c120f","back":[["sil","","#140b08"]],"front":[["sil","","#1c120f"]]},"gtaper":{"img":[75.0,-3.0,255.48,185.0],"lum":[0.038,0.087,0.416],"ears":1,"crane":"M89.5,57.0 89.2,68.6 85.9,70.0 81.9,74.0 81.7,76.1 77.9,82.0 77.9,86.0 79.8,88.2 79.8,98.8 77.9,100.9 77.9,108.7 81.7,114.6 81.9,120.5 89.2,127.8 89.2,133.2 91.1,135.4 91.1,144.6 93.0,146.7 93.0,157.8 94.9,159.9 94.9,167.2 96.8,169.3 96.8,177.6 306.3,177.1 306.6,173.1 308.5,171.0 308.5,163.7 310.3,161.5 310.3,154.2 312.2,152.1 312.2,139.1 314.1,137.0 314.1,125.9 316.7,123.1 319.3,122.6 320.0,119.8 323.3,116.7 323.6,105.2 327.3,103.0 327.3,97.1 325.4,95.0 325.4,78.3 320.0,72.8 319.8,63.2 317.4,60.6 314.8,60.1 312.5,57.7 312.2,53.7 308.7,50.2 308.2,45.7 301.6,43.1 297.4,38.8 296.9,34.4 291.0,28.5 288.9,28.2 286.7,26.3 277.1,26.1 274.5,23.3 274.2,19.3 270.2,15.2 262.4,15.0 254.7,7.5 235.8,7.5 230.6,2.0 226.6,1.8 224.4,-0.1 192.1,-0.1 190.0,1.8 175.1,1.8 171.6,5.3 169.0,5.8 163.6,11.2 144.9,11.2 143.3,12.9 136.9,15.2 132.9,19.3 130.5,25.6 128.2,28.0 118.5,28.2 111.2,35.5 104.8,37.9 100.8,41.9 100.6,44.0 98.7,46.2 98.4,50.2 96.1,52.5 93.5,53.0Z","main":"#190f0d","back":[["sil","","#130a08"]],"front":[["sil","","#190f0d"]]},"gondule":{"img":[71.22,-2.37,261.14,197.59],"lum":[0.036,0.092,0.447],"ears":1,"crane":"M93.2,51.4 93.0,53.5 91.1,55.6 91.1,62.9 89.5,64.6 89.0,67.2 81.9,74.0 81.7,76.1 77.9,82.0 77.9,85.6 76.0,87.7 76.0,102.6 74.1,104.7 74.1,110.6 76.0,112.7 76.0,127.1 74.1,129.2 74.1,133.2 76.0,135.4 76.3,139.4 80.5,139.8 81.7,141.0 81.7,154.0 83.3,155.7 83.8,158.2 86.6,159.0 89.2,163.7 89.2,167.2 91.1,169.3 91.1,172.9 93.0,175.0 93.0,182.3 98.4,187.7 100.6,192.7 300.0,192.7 301.1,189.6 306.3,184.7 306.6,178.8 308.5,176.7 308.5,173.1 310.3,171.0 310.3,167.4 313.9,163.9 314.1,161.8 316.0,159.7 316.0,150.5 318.6,147.6 321.4,146.9 321.7,144.8 323.6,142.7 323.6,122.1 329.2,116.2 329.2,108.5 327.3,106.3 327.3,87.7 325.4,85.6 325.4,82.0 323.8,80.4 323.3,77.8 316.2,70.9 316.0,68.8 314.1,66.7 313.9,55.1 306.1,47.3 294.1,43.1 293.1,36.2 289.1,32.2 286.5,31.8 278.5,23.7 278.0,21.1 274.0,17.1 271.9,16.9 262.2,11.2 247.3,11.2 233.9,3.7 230.3,3.7 228.2,1.8 190.7,1.8 188.6,-0.1 186.5,-0.1 185.3,3.9 178.7,3.9 173.0,7.5 152.5,7.5 150.4,9.3 146.3,9.6 136.7,17.4 133.8,24.2 131.7,24.5 129.6,26.3 124.2,26.3 122.0,28.2 118.0,28.5 108.3,38.1 105.5,45.0 99.1,47.3 96.1,50.6Z","main":"#221814","back":[["sil","","#120a07"]],"front":[["sil","","#221814"]]}};

diff --git a/js/app.js b/js/app.js
@@ -813,7 +813,7 @@ function hairArt(s,part,p){const A=HART(s),L=A[part];if(!L||!L.length)return '';
   const FY=A.fcut?A.fcut[0]:345,FX=A.fcut?A.fcut[1]:112;
   if(part==='back'&&A.dos)return flt+img.replace(`${s.hair}.png`,`${s.hair}-dos.png`);   /* cheveux sous les épaules : vides remplis de mèches, derrière le corps */
   if(part==='back')return `<defs><clipPath id="${cid}n"><rect x="120" y="240" width="160" height="${FY-200}"/></clipPath></defs><path d="${L[0][1]}" fill="${shade(same?A.main:hc,same?-.5:-.62)}" clip-path="url(#${cid}n)"/>`+flt+img;
-  return flt+`<defs><clipPath id="${cid}"><path d="M-400,-400 L800,-400 L800,${FY} L${200+FX},${FY} L${200+FX},1600 L${200-FX},1600 L${200-FX},${FY} L-400,${FY}Z ${neckZone(s.face,FY)}${A.ears?earHoles(s):''}" clip-rule="evenodd"/></clipPath></defs><g clip-path="url(#${cid})">${img}${A.acc?`<image href="assets/coiffures/${s.hair}-acc.png" x="${x}" y="${y}" width="${w}" height="${h}" preserveAspectRatio="none"/>`:''}</g>`}
+  return flt+`<defs><clipPath id="${cid}"><path d="M-400,-400 L800,-400 L800,${FY} L${200+FX},${FY} L${200+FX},1600 L${200-FX},1600 L${200-FX},${FY} L-400,${FY}Z ${neckZone(s.face,FY)}${A.ears?earHoles(s):''}" clip-rule="evenodd"/></clipPath></defs><g clip-path="url(#${cid})">${A.crane?`<mask id="${cid}k"><rect x="-400" y="-400" width="1200" height="1200" fill="#fff"/><path d="${(FACES[s.face]||FACES.joufflu).d}" fill="#000"/></mask><path d="${A.crane}" fill="${shade(s.skin,-.06)}" mask="url(#${cid}k)"/>`:''}${img}${A.acc?`<image href="assets/coiffures/${s.hair}-acc.png" x="${x}" y="${y}" width="${w}" height="${h}" preserveAspectRatio="none"/>`:''}</g>`}
  if(part==='back')return `<path d="${sil}" fill="${shade(tint(A.main),-.45)}"/>`;
  return `<defs><clipPath id="${id}c"><path d="${sil}"/></clipPath><filter id="${id}f" x="-5%" y="-5%" width="110%" height="110%"><feGaussianBlur stdDeviation="2.4"/></filter></defs>`
   +`<path d="${sil}" fill="${tint(L[0][2])}"/><g clip-path="url(#${id}c)"><g filter="url(#${id}f)">${L.slice(1).map(l=>`<path d="${l[1]}" fill="${tint(l[2])}"/>`).join('')}</g></g>`

diff --git a/tools/traceur-coiffures.py b/tools/traceur-coiffures.py
@@ -54,7 +54,7 @@ for k in ['bbantu', 'bchignon', 'bpuffs', 'bcollees', 'bfoulard', 'bcourt'] + FA
 # planche « Coiffures pour garçon » (docs/references/coiffures/planche-garcons-lisses.jpg, cases dans garcons/) : visage de garçon
 # plus long que celui du jeu ; la case est posée à la largeur de la tête et les yeux sur ceux du jeu (menton « virtuel »)
 def garcon(nom, **kw):
-    return {'src': f'docs/references/coiffures/garcons/{nom}.png', 'match': 'g', 'bottom': 196, 'back': False, 'tips': False, 'smooth': False, 'bord': 13, 'oreilles': True, 'combler': 'gd', **kw}
+    return {'src': f'docs/references/coiffures/garcons/{nom}.png', 'match': 'g', 'bottom': 196, 'back': False, 'tips': False, 'smooth': False, 'bord': 13, 'oreilles': True, 'combler': 'gd', 'rogne': 17, **kw}
 GARCONS = ['gnaturel', 'gdegbas', 'gdegmoyen', 'gdeghaut', 'gbuzz', 'gcarrecourt', 'gcarremoyen', 'gcarrelong', 'gplaques', 'graiemilieu',
            'graiecote', 'gquiff', 'gpompadour', 'gtaper', 'gondule']
 for k in GARCONS: HAIRS[k] = garcon(k)
@@ -345,11 +345,12 @@ for hid, c in HAIRS.items():
     near = cv2.dilate(hole, np.ones((5, 5), np.uint8)).astype(bool)
     lumc = (clean.astype(float) * [.299, .587, .114]).sum(-1)
     sk_in = (((clean[..., 0].astype(int) - clean[..., 2] > 40) & (clean[..., 0] > 80)) | (near & (lumc > 55)) | hole.astype(bool)).astype(np.uint8)
-    if c.get('match') in ('b', 'c'):   # bretelles blanches du débardeur et fond clair coincés entre les boucles ou les tresses : repeints en cheveux
+    if c.get('match') in ('b', 'c', 'g'):   # bretelles blanches du débardeur et fond clair coincés entre les boucles ou les tresses : repeints en cheveux
         sk_in |= ((lumc > 140) & (abs(clean[..., 0].astype(int) - clean[..., 2]) < 45)).astype(np.uint8)
     if c.get('accessoire'): sk_in[cv2.dilate(hole, np.ones((5, 5), np.uint8)) > 0] = 0   # barrette : gardée telle quelle, pas repeinte en cheveux
     F = F | (cv2.resize(hole, (F.shape[1], F.shape[0]), interpolation=cv2.INTER_NEAREST) > 0)   # restes de peau ou de contour orangé dans les cheveux
-    a = cv2.GaussianBlur(cv2.erode(F.astype(np.uint8), np.ones((UP // 2 * 2 + 1,) * 2, np.uint8)).astype(np.float32), (9, 9), 0)   # bord resserré : pas de liseré couleur peau
+    er = c.get('rogne', UP // 2 * 2 + 1)   # bord resserré (planche garçons : fond clair autour des mèches, on rogne un peu plus)
+    a = cv2.GaussianBlur(cv2.erode(F.astype(np.uint8), np.ones((er, er), np.uint8)).astype(np.float32), (9, 9), 0)   # bord resserré : pas de liseré couleur peau
     # la raie (ligne de peau entre les deux côtés, en haut du crâne) est gardée telle quelle
     fy0 = np.where(skin[:, int(cx)])[0]; fy0 = fy0[fy0 > top + 3].min() if len(fy0[fy0 > top + 3]) else top + 30
     sk_in[:fy0, max(0, int(cx) - 3):int(cx) + 4] = 0
@@ -395,6 +396,9 @@ for hid, c in HAIRS.items():
         side = np.clip((np.abs(Ug - 200) - 52) / 14, 0, 1)[None, :]   # 0 au milieu du front, 1 sur les côtés
         ramp = np.clip((Vg - v0_) / (v1_ - v0_), 0, 1)[:, None]
         al = al * (1 - .85 * side * ramp ** 1.2)
+    if c.get('match') == 'g':   # bord semi-transparent : couleur des mèches voisines (pas le fond clair de la planche, qui ressortait une fois reteint)
+        bm = ((al < .97) & (cv2.dilate((al > .02).astype(np.uint8), np.ones((5, 5), np.uint8)) > 0)).astype(np.uint8)
+        px = cv2.inpaint(np.ascontiguousarray(px[:, :, ::-1]).astype(np.uint8), bm, 4, cv2.INPAINT_TELEA)[:, :, ::-1]
     ys2, xs2 = np.where(al > .02); X0, Y0, X1, Y1 = xs2.min(), ys2.min(), xs2.max() + 1, ys2.max() + 1
     rgba = np.dstack([px[..., ::-1], (al * 255).clip(0, 255).astype(np.uint8)])[Y0:Y1, X0:X1]
     cv2.imwrite(f'assets/coiffures/{hid}.png', rgba, [cv2.IMWRITE_PNG_COMPRESSION, 9])
@@ -435,6 +439,13 @@ for hid, c in HAIRS.items():
     if accM is not None: out_img['acc'] = 1
     if dos: out_img['dos'] = 1
     if c.get('oreilles'): out_img['ears'] = 1   # oreilles du jeu visibles à travers les cheveux
+    if c.get('match') == 'g':   # crâne : peau sous toute la largeur des cheveux (rang par rang), jusqu'au haut des oreilles : la coiffure ne se détache jamais de la tête
+        cr = np.zeros_like(M)
+        for y in range(M.shape[0]):
+            if toU(0, y)[1] > 226: break
+            xs_ = np.where(M[y])[0]
+            if len(xs_): cr[y, xs_.min():xs_.max() + 1] = True
+        out_img['crane'] = paths(cv2.erode(cr.astype(np.uint8), np.ones((31, 31), np.uint8)).astype(bool))   # en retrait du bord des cheveux : pas de liseré de peau autour
     if c.get('fcut'): out_img['fcut'] = c['fcut']   # découpe des mèches de devant : [hauteur des épaules, demi-largeur]
     out[hid] = {**out_img, 'main': hexc(rgb[main]), 'back': [['sil', paths(backR), hexc(rgb[0])]], 'front': [['sil', '', hexc(rgb[main])]]}   # avec l'image, les calques vectoriels de devant ne servent pas (fichier 10 fois plus léger)
     if dbg:
